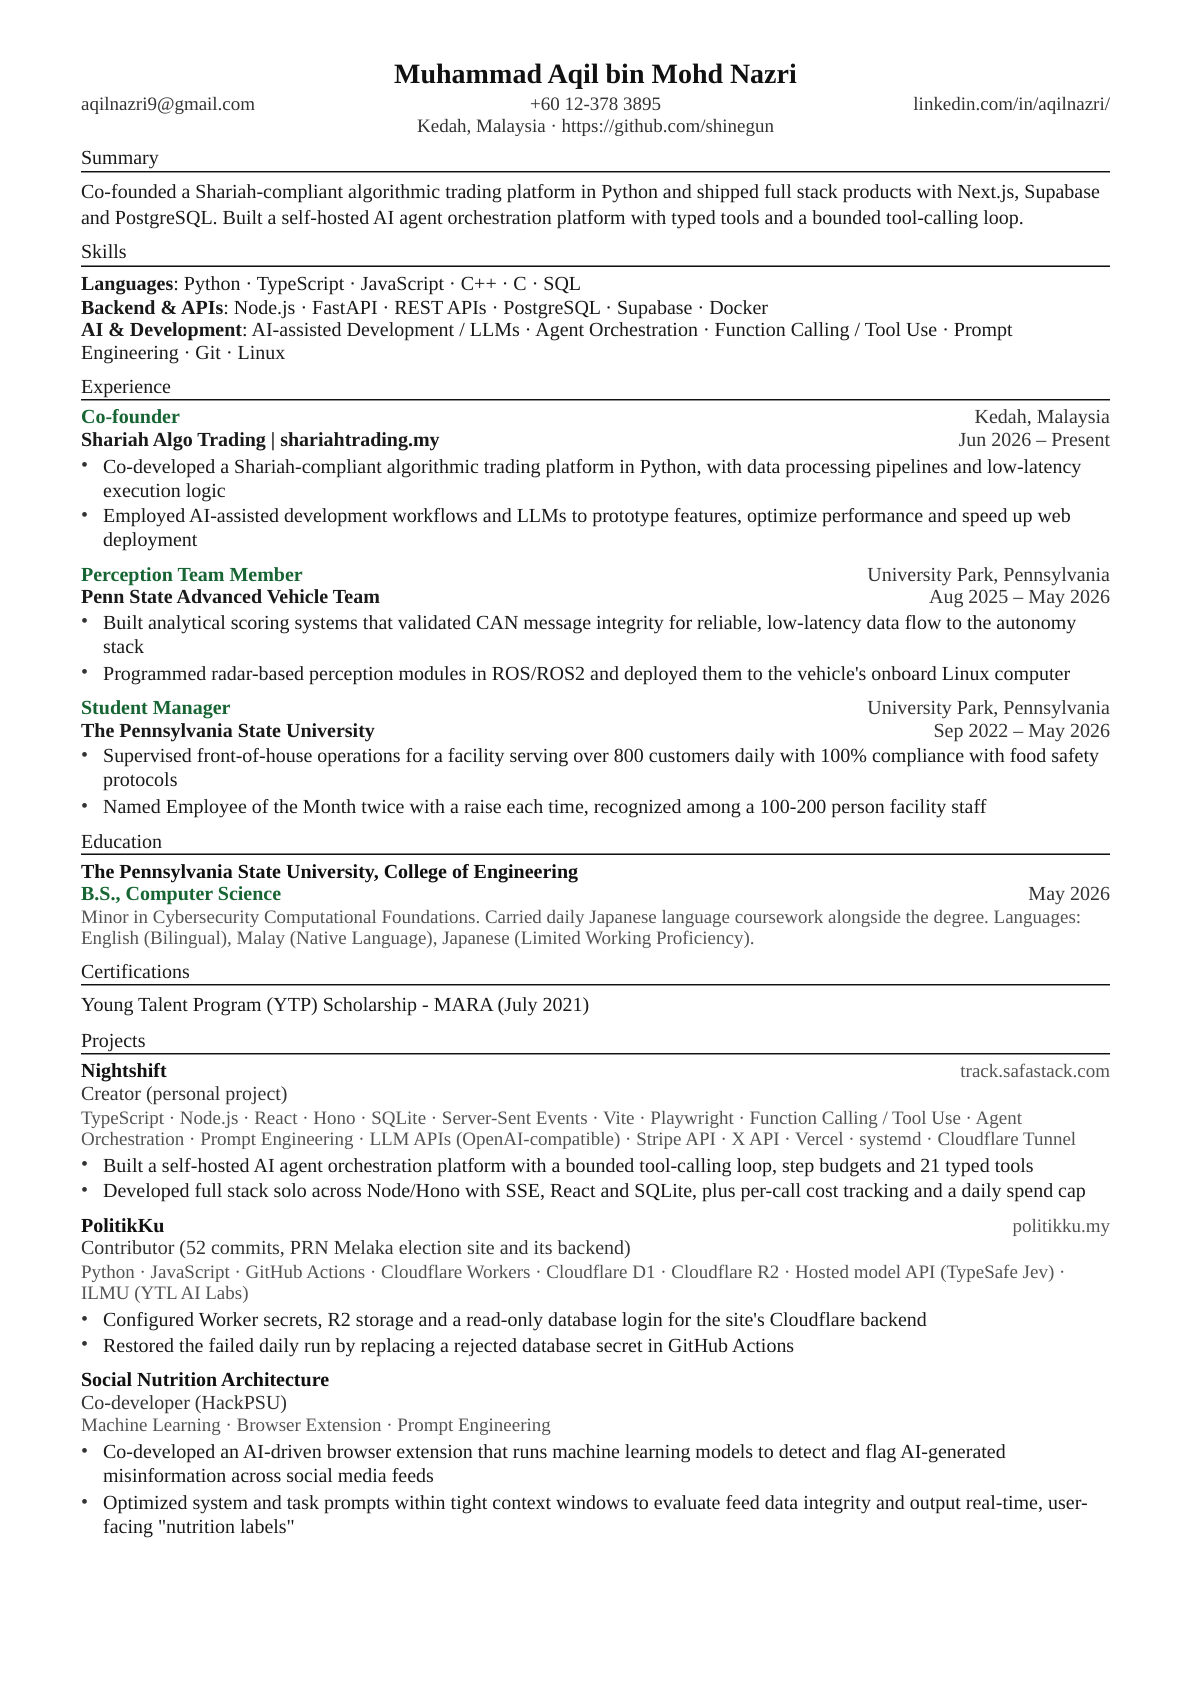
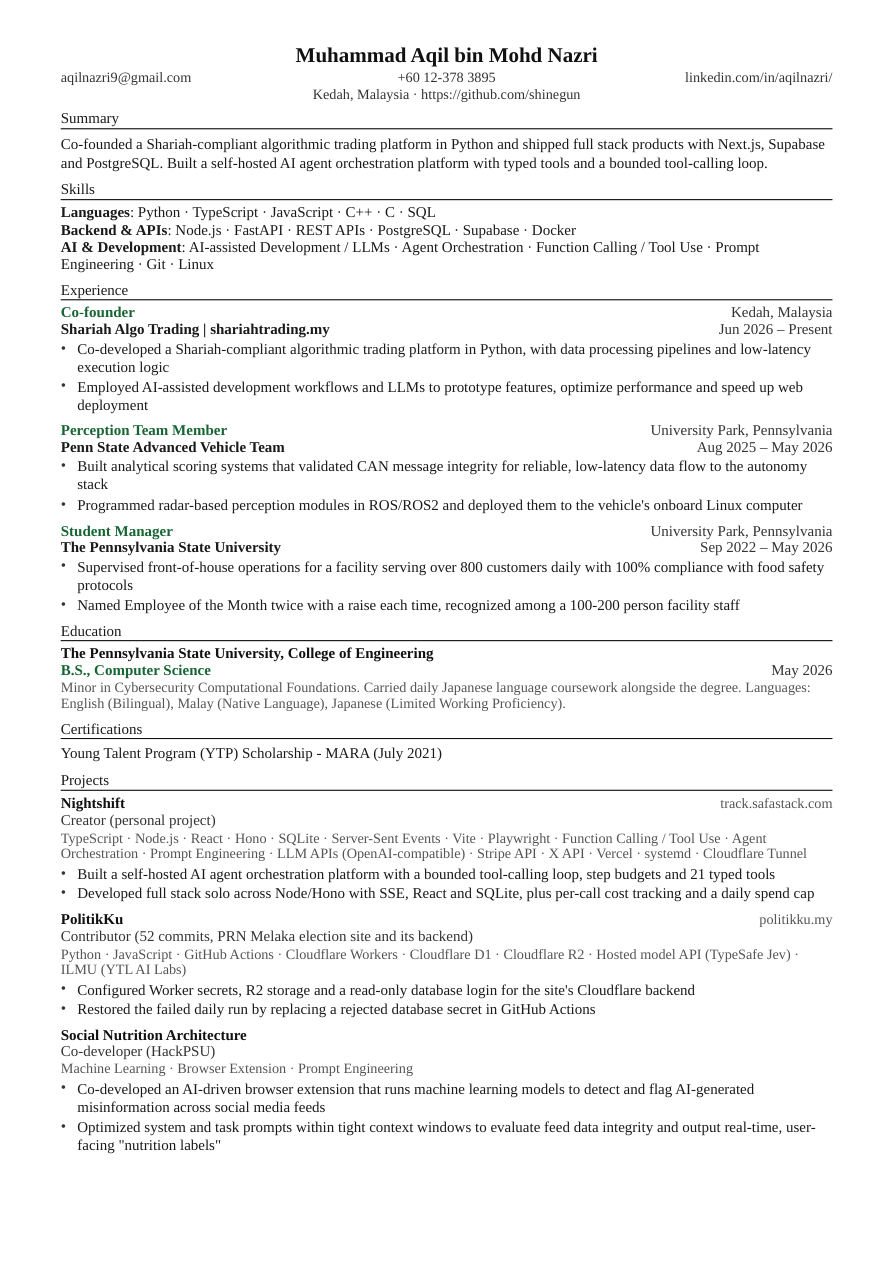
Lighter preview image for phone loads

diff --git a/index.html b/index.html
@@ -186,7 +186,7 @@
         </ul>
       </div>
       <a class="frame" href="Muhammad-Aqil-Nazri-Resume.pdf" aria-label="Open the resume PDF">
-        <img src="resume-preview.jpg" width="1192" height="1686" alt="Page one of Muhammad Aqil's resume: summary, skills, experience at Shariah Algo Trading, Penn State Advanced Vehicle Team and Penn State, education, projects.">
+        <img src="resume-preview.jpg" width="894" height="1265" alt="Page one of Muhammad Aqil's resume: summary, skills, experience at Shariah Algo Trading, Penn State Advanced Vehicle Team and Penn State, education, projects.">
       </a>
     </div>
   </section>
